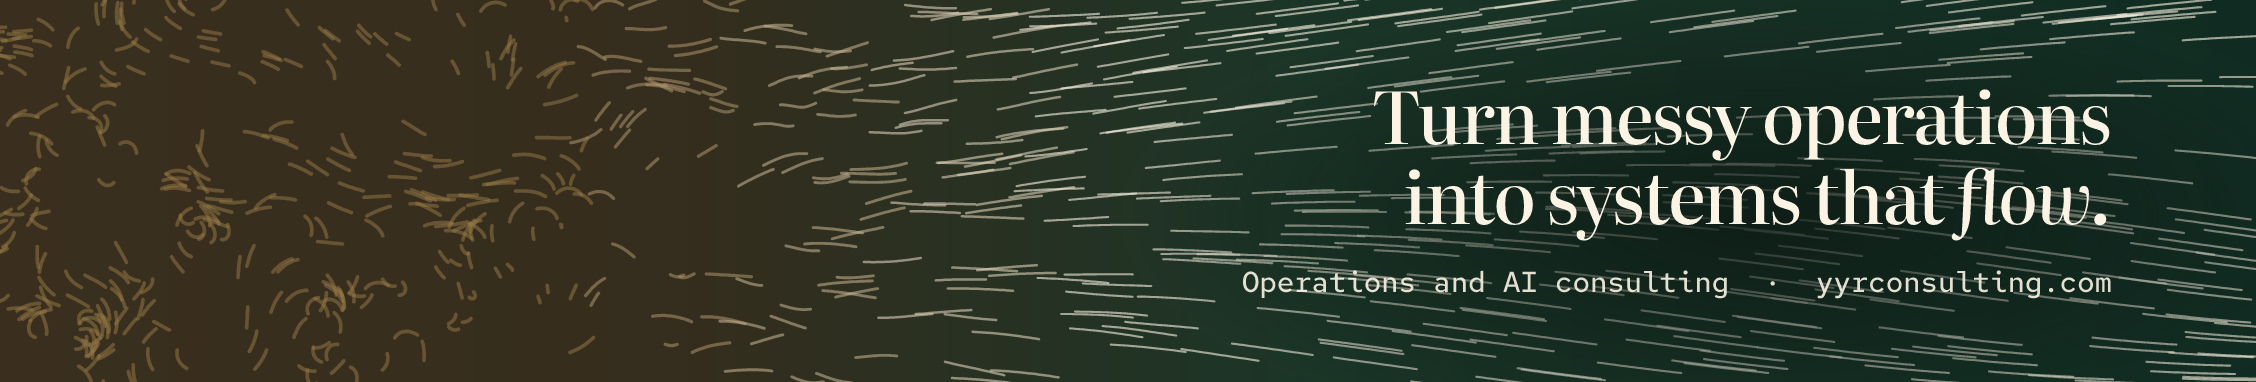
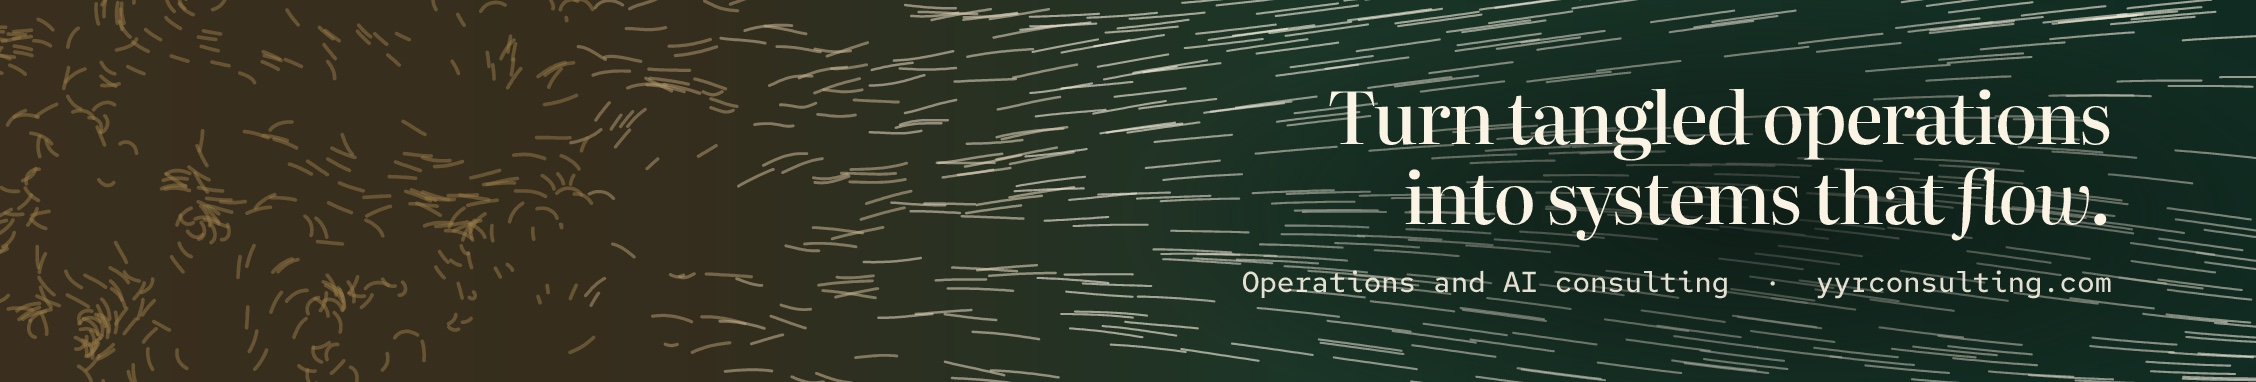
Auto-update 2026-10-10 13:55

Changed region(s): [[0.5895, 0.2304, 0.7757, 0.4319]]

diff --git a/index.html b/index.html
@@ -3,13 +3,18 @@
 <head>
   <meta charset="utf-8">
   <meta name="viewport" content="width=device-width, initial-scale=1">
-  <title>YYR Consulting | Operations that flow</title>
-  <meta name="description" content="Operations and AI consulting. I find what slows your team down and build systems that keep work moving.">
+  <title>YYR Consulting | Operations and AI consulting</title>
+  <meta name="description" content="Operations and AI consulting for growing companies. I find what slows your team down, then use AI to build the fix in weeks.">
   <meta name="theme-color" content="#faf6ee" media="(prefers-color-scheme: light)">
   <meta name="theme-color" content="#121a16" media="(prefers-color-scheme: dark)">
-  <meta property="og:title" content="YYR Consulting">
-  <meta property="og:description" content="Operations and AI consulting. Turn messy operations into systems that flow.">
-  <meta property="og:image" content="https://yyrconsulting.com/brand/yyr-linkedin-banner.jpg">
+  <meta property="og:type" content="website">
+  <meta property="og:url" content="https://yyrconsulting.com/">
+  <meta property="og:title" content="YYR Consulting | Operations and AI consulting">
+  <meta property="og:description" content="Turn tangled operations into systems that flow.">
+  <meta property="og:image" content="https://yyrconsulting.com/brand/og-image.jpg">
+  <meta property="og:image:width" content="1200">
+  <meta property="og:image:height" content="630">
+  <meta name="twitter:card" content="summary_large_image">
   <link rel="preload" href="fonts/Literata-normal.woff2" as="font" type="font/woff2" crossorigin>
   <link rel="preload" href="fonts/Literata-italic.woff2" as="font" type="font/woff2" crossorigin>
   <link rel="preload" href="fonts/RedHatMono-normal.woff2" as="font" type="font/woff2" crossorigin>
@@ -30,7 +35,7 @@
       <ul class="nav__links">
         <li><a href="#services">Services</a></li>
         <li><a href="#work">Work</a></li>
-        <li><a href="#approach">Approach</a></li>
+        <li><a href="#approach">How it works</a></li>
         <li><a href="#about">About</a></li>
       </ul>
       <a class="btn btn--ink btn--sm nav__cta" href="mailto:yitzy@bitzyspider.com?subject=Hello%20YYR%20Consulting">Send an email</a>
@@ -42,67 +47,54 @@
       <canvas class="flow" data-state="mud" data-pointer aria-hidden="true"></canvas>
       <div class="hero__copy">
         <h1 class="hero__title" id="hero-title">
-          <span class="line"><span>Turn messy operations</span></span>
+          <span class="line"><span>Turn tangled operations</span></span>
           <span class="line"><span>into systems that <em>flow.</em></span></span>
         </h1>
-        <p class="hero__sub">Operations and AI consulting. I find what slows your team down and build systems that keep work moving.</p>
+        <p class="hero__sub">Operations and AI consulting. I find what slows your team down, then use AI to build the fix in weeks.</p>
         <div class="hero__actions">
           <a class="btn btn--cream" href="mailto:yitzy@bitzyspider.com?subject=Hello%20YYR%20Consulting">Send an email<svg class="icon" viewBox="0 0 256 256" aria-hidden="true"><path fill="currentColor" d="M221.66,133.66l-72,72a8,8,0,0,1-11.32-11.32L196.69,136H40a8,8,0,0,1,0-16H196.69L138.34,61.66a8,8,0,0,1,11.32-11.32l72,72A8,8,0,0,1,221.66,133.66Z"/></svg></a>
-          <a class="btn btn--line-cream" href="#work">See the work</a>
+          <a class="btn btn--line-cream" href="#work">See an example</a>
         </div>
       </div>
     </section>
 
-    <section class="proof" aria-label="Results">
+    <section class="audience" aria-label="Who this is for">
       <div class="wrap">
-        <ul class="proof__list">
-          <li><em>10x</em> throughput</li>
-          <li><em>$100M+</em> supported</li>
-          <li>Results in <em>weeks</em></li>
-        </ul>
+        <p class="audience__text">For growing companies whose operations have outgrown their spreadsheets.</p>
       </div>
     </section>
 
     <section class="services" id="services" aria-labelledby="services-title">
       <div class="wrap services__wrap">
         <h2 class="h2" id="services-title">What I do</h2>
-        <div class="services__groups">
-          <div class="group">
-            <h3 class="group__label">Operations</h3>
-            <dl class="svc">
-              <div class="svc__row"><dt>Diagnosis and turnaround</dt><dd>Pinpoint what slows you down and fix what matters most first.</dd></div>
-              <div class="svc__row"><dt>Custom AI-built tools</dt><dd>Internal apps built around how your team actually works.</dd></div>
-              <div class="svc__row"><dt>Connected systems</dt><dd>Your tools working together, so every team sees the same numbers.</dd></div>
-              <div class="svc__row"><dt>Dashboards and asset recovery</dt><dd>See what every team is doing. Turn idle stock into cash.</dd></div>
-            </dl>
-          </div>
-          <div class="group">
-            <h3 class="group__label">AI advisory</h3>
-            <dl class="svc">
-              <div class="svc__row"><dt>AI strategy</dt><dd>A clear plan for where AI pays off, plus a quick first win.</dd></div>
-              <div class="svc__row"><dt>AI governance and training</dt><dd>Clear guardrails and hands-on training so your team uses AI with confidence.</dd></div>
-            </dl>
-          </div>
-        </div>
+        <dl class="svc">
+          <div class="svc__row"><dt>Diagnosis and quick wins</dt><dd>Pinpoint what slows your team down and fix what matters most first.</dd></div>
+          <div class="svc__row"><dt>Custom AI-built tools</dt><dd>Internal apps built for your team’s day-to-day work.</dd></div>
+          <div class="svc__row"><dt>Connected systems and dashboards</dt><dd>Your tools working together, so every team sees the same numbers.</dd></div>
+          <div class="svc__row"><dt>AI strategy and training</dt><dd>Where AI pays off, sensible guardrails, and hands-on training for your team.</dd></div>
+        </dl>
       </div>
     </section>
 
     <section class="work" id="work" aria-labelledby="work-title">
       <canvas class="flow" data-state="clean" aria-hidden="true"></canvas>
       <article class="work__card">
-        <h2 class="h2" id="work-title">An equipment marketplace, running smoothly in weeks.</h2>
-        <div class="work__body">
-          <div class="work__story">
-            <p>I brought millions of dollars of inventory into one platform the whole company trusts.</p>
-            <p>Receiving, testing and tracking now run as one connected process, and the team runs it on their own.</p>
+        <h2 class="h2" id="work-title">An equipment marketplace, rebuilt in two months.</h2>
+        <div class="ba">
+          <div class="ba__col">
+            <h3 class="ba__label">Before</h3>
+            <p>Inventory lived in three systems that disagreed, so the team double-checked everything by hand.</p>
           </div>
-          <ul class="results">
-            <li>Errors near zero</li>
-            <li>One source of truth</li>
-            <li>Seven figures recovered from idle stock</li>
-            <li>A team that runs it independently</li>
-          </ul>
+          <div class="ba__col">
+            <h3 class="ba__label">After</h3>
+            <p>One platform the whole company trusts, with receiving, testing and tracking as one connected process.</p>
+          </div>
         </div>
+        <ul class="results">
+          <li><strong>100+ to 3 or 4</strong> inventory errors per area</li>
+          <li><strong>Seven figures</strong> in idle stock headed back to cash</li>
+          <li><strong>In-house</strong> team owns it day to day</li>
+        </ul>
       </article>
     </section>
 
@@ -111,29 +103,36 @@
         <h2 class="h2" id="approach-title">How it works</h2>
         <ol class="steps">
           <li class="step"><h3>Diagnose</h3><p>Talk to the people doing the work.</p></li>
-          <li class="step"><h3>Design</h3><p>Shape the system around what the business needs.</p></li>
+          <li class="step"><h3>Design</h3><p>Map how work really moves, then design the fix.</p></li>
           <li class="step"><h3>Build</h3><p>AI-assisted, so it ships in weeks.</p></li>
-          <li class="step"><h3>Hand off</h3><p>Your team owns it and runs it with confidence.</p></li>
+          <li class="step"><h3>Hand off</h3><p>Your team runs it from day one.</p></li>
         </ol>
+        <p class="steps__note">Engagements start with a short diagnosis, then build and hand off within a couple of months.</p>
       </div>
     </section>
 
     <section class="about" id="about" aria-labelledby="about-title">
       <div class="wrap about__wrap">
+        <img class="about__photo" src="img/yitzy-rosenberg.jpg" alt="Yitzy Rosenberg" width="720" height="712" loading="lazy">
         <div class="about__text">
-          <h2 class="h2" id="about-title">Hi, I’m Yitzy.</h2>
-          <p class="lede">Engineer turned operator. I’ve spent a decade building operations that work, in warehouses, real estate portfolios, public infrastructure and startups.</p>
+          <h2 class="h2" id="about-title">Hi, I’m Yitzy Rosenberg.</h2>
+          <p class="lede">Engineer turned operator. I’ve spent a decade building operations that work, from warehouses and real estate portfolios to public infrastructure.</p>
+          <ul class="creds">
+            <li>Ran operations at a $15M+ equipment marketplace</li>
+            <li>Internal consultant to the CEO of a $1B+ real estate developer</li>
+            <li>Helped secure $100M+ in public infrastructure funding</li>
+            <li>Built an AI tool that took deal review from 10 to nearly 100 a week</li>
+          </ul>
+          <p class="about__edu">MBA and M.Eng, UC Berkeley · B.S. and M.Eng, Cornell</p>
+          <a class="about__link" href="https://www.linkedin.com/in/yitzyrosenberg/" rel="noopener">LinkedIn profile<svg class="icon" viewBox="0 0 256 256" aria-hidden="true"><path fill="currentColor" d="M221.66,133.66l-72,72a8,8,0,0,1-11.32-11.32L196.69,136H40a8,8,0,0,1,0-16H196.69L138.34,61.66a8,8,0,0,1,11.32-11.32l72,72A8,8,0,0,1,221.66,133.66Z"/></svg></a>
         </div>
-        <dl class="facts">
-          <div><dt>UC Berkeley</dt><dd>MBA and M.Eng</dd></div>
-          <div><dt>Cornell</dt><dd>B.S. and M.Eng in engineering</dd></div>
-        </dl>
       </div>
     </section>
 
     <section class="contact" id="contact" aria-labelledby="contact-title">
       <div class="wrap contact__wrap">
         <h2 class="contact__title" id="contact-title">Let’s get your operations <em>flowing.</em></h2>
+        <p class="lede">Tell me what’s slowing your team down, and I’ll reply personally.</p>
         <div class="contact__actions">
           <a class="btn btn--ink" href="mailto:yitzy@bitzyspider.com?subject=Hello%20YYR%20Consulting">Send an email<svg class="icon" viewBox="0 0 256 256" aria-hidden="true"><path fill="currentColor" d="M221.66,133.66l-72,72a8,8,0,0,1-11.32-11.32L196.69,136H40a8,8,0,0,1,0-16H196.69L138.34,61.66a8,8,0,0,1,11.32-11.32l72,72A8,8,0,0,1,221.66,133.66Z"/></svg></a>
         </div>
@@ -147,7 +146,7 @@
         <img class="brand__mark" src="favicon.svg" alt="" width="26" height="26">
         <span class="brand__name">YYR Consulting</span>
       </a>
-      <p class="footer__meta">© 2026 YYR Consulting LLC</p>
+      <p class="footer__meta"><a href="https://www.linkedin.com/in/yitzyrosenberg/" rel="noopener">LinkedIn</a><span>© 2026 YYR Consulting LLC</span></p>
     </div>
   </footer>
 

diff --git a/styles.css b/styles.css
@@ -172,27 +172,22 @@ a { color: inherit; text-underline-offset: 0.2em; text-decoration-thickness: 1px
 @keyframes rise { from { transform: translateY(105%); } }
 @keyframes settle { from { opacity: 0; transform: translateY(10px); filter: blur(6px); } }
 
-/* Proof row */
-.proof { padding: clamp(64px, 9vw, 112px) 0 clamp(24px, 4vw, 48px); }
-.proof__list {
-  display: flex; flex-wrap: wrap; gap: 12px clamp(28px, 5vw, 72px);
-  font-size: clamp(1.6rem, 3.2vw, 2.6rem); font-weight: 400; letter-spacing: -0.03em; line-height: 1.15;
-  color: var(--ink-2);
+/* Audience */
+.audience { padding: clamp(72px, 10vw, 128px) 0 clamp(24px, 4vw, 48px); }
+.audience__text {
+  max-width: 24ch;
+  font-size: clamp(1.9rem, 3.8vw, 3.1rem);
+  font-weight: 400; line-height: 1.15; letter-spacing: -0.03em;
+  text-wrap: balance;
 }
-.proof__list em { color: var(--ink); font-weight: 450; }
 
 /* Services */
 .services { padding: clamp(48px, 6vw, 80px) 0 clamp(88px, 11vw, 140px); }
 .services__wrap { display: grid; grid-template-columns: minmax(0, 4fr) minmax(0, 8fr); gap: clamp(32px, 5vw, 72px); align-items: start; }
 .services__wrap > .h2 { position: sticky; top: 112px; }
 @media (max-width: 900px) { .services__wrap { grid-template-columns: minmax(0, 1fr); } .services__wrap > .h2 { position: static; } }
-.group + .group { margin-top: 56px; }
-.group__label {
-  padding-bottom: 14px;
-  border-bottom: 1px solid var(--line-strong);
-  font-family: var(--mono); font-size: 13px; font-weight: 500; color: var(--ink-2);
-}
 .svc__row { padding: 22px 0; display: grid; grid-template-columns: minmax(0, 5fr) minmax(0, 7fr); gap: 24px; }
+.svc { border-top: 1px solid var(--line-strong); }
 .svc__row + .svc__row { border-top: 1px solid var(--line); }
 .svc dt { font-size: 1.3rem; font-weight: 450; letter-spacing: -0.02em; line-height: 1.25; }
 .svc dd { color: var(--ink-2); font-size: 1.02rem; }
@@ -212,11 +207,18 @@ a { color: inherit; text-underline-offset: 0.2em; text-decoration-thickness: 1px
   box-shadow: 0 30px 70px -30px rgb(4 18 12 / 0.65);
 }
 .work__card .h2 { max-width: 20ch; }
-.work__body { margin-top: 34px; display: grid; grid-template-columns: minmax(0, 7fr) minmax(0, 5fr); gap: clamp(28px, 4vw, 56px); }
-@media (max-width: 860px) { .work__body { grid-template-columns: minmax(0, 1fr); } }
-.work__story p { color: var(--ink-2); }
-.work__story p + p { margin-top: 16px; }
-.results { display: grid; gap: 14px; align-content: start; padding-left: 22px; border-left: 1px solid var(--line-strong); font-size: 1.15rem; font-weight: 450; letter-spacing: -0.015em; }
+
+.ba { margin-top: 32px; display: grid; grid-template-columns: minmax(0, 1fr) minmax(0, 1fr); gap: clamp(20px, 3vw, 40px); }
+@media (max-width: 720px) { .ba { grid-template-columns: minmax(0, 1fr); } }
+.ba__col { padding-top: 14px; border-top: 1px solid var(--line-strong); }
+.ba__col:last-child { border-top-color: var(--accent); }
+.ba__label { font-family: var(--mono); font-size: 12.5px; font-weight: 500; color: var(--ink-2); }
+.ba__col:last-child .ba__label { color: var(--accent); }
+.ba__col p { margin-top: 8px; font-size: 1.1rem; }
+.results { margin-top: 36px; display: grid; grid-template-columns: repeat(3, minmax(0, 1fr)); gap: 20px; }
+@media (max-width: 720px) { .results { grid-template-columns: minmax(0, 1fr); gap: 16px; } }
+.results li { color: var(--ink-2); font-size: 1rem; line-height: 1.4; }
+.results strong { display: block; margin-bottom: 4px; color: var(--ink); font-size: clamp(1.5rem, 2.4vw, 1.9rem); font-weight: 450; letter-spacing: -0.03em; line-height: 1.1; }
 
 /* Approach: a line that draws with the scroll */
 .approach { padding: clamp(88px, 11vw, 140px) 0; }
@@ -237,6 +239,7 @@ a { color: inherit; text-underline-offset: 0.2em; text-decoration-thickness: 1px
   }
 }
 @keyframes draw { from { transform: scaleX(0); } }
+.steps__note { margin-top: 40px; max-width: 60ch; font-family: var(--mono); font-size: 13.5px; color: var(--ink-2); }
 .step h3 { font-size: 1.6rem; font-weight: 450; letter-spacing: -0.03em; }
 .step p { margin-top: 10px; color: var(--ink-2); font-size: 1rem; }
 @media (max-width: 900px) {
@@ -251,12 +254,16 @@ a { color: inherit; text-underline-offset: 0.2em; text-decoration-thickness: 1px
 
 /* About */
 .about { padding: clamp(88px, 11vw, 140px) 0; background: var(--ground-2); }
-.about__wrap { display: grid; grid-template-columns: minmax(0, 7fr) minmax(0, 5fr); gap: clamp(32px, 5vw, 80px); align-items: center; }
-@media (max-width: 900px) { .about__wrap { grid-template-columns: minmax(0, 1fr); } }
-.facts { display: grid; gap: 22px; }
-.facts > div { padding-left: 18px; border-left: 2px solid var(--accent); }
-.facts dt { font-size: 1.2rem; font-weight: 500; letter-spacing: -0.015em; }
-.facts dd { margin-top: 2px; color: var(--ink-2); font-size: 1rem; }
+.about__wrap { display: grid; grid-template-columns: minmax(0, 4fr) minmax(0, 7fr); gap: clamp(32px, 5vw, 80px); align-items: center; }
+.about__photo { width: 100%; max-width: 380px; height: auto; aspect-ratio: 1; object-fit: cover; border-radius: var(--radius); box-shadow: var(--shadow); }
+@media (max-width: 900px) { .about__wrap { grid-template-columns: minmax(0, 1fr); } .about__photo { max-width: 260px; } }
+
+.creds { margin-top: 24px; display: grid; gap: 10px; }
+.creds li { padding-left: 16px; border-left: 2px solid var(--accent); font-size: 1.05rem; line-height: 1.4; }
+.about__edu { margin-top: 22px; font-family: var(--mono); font-size: 13px; color: var(--ink-2); }
+.about__link { margin-top: 18px; display: inline-flex; align-items: center; gap: 8px; font-family: var(--mono); font-size: 14px; font-weight: 500; color: var(--accent); }
+.about__link .icon { transition: transform 220ms var(--ease-out); }
+@media (hover: hover) and (pointer: fine) { .about__link:hover .icon { transform: translateX(3px); } }
 
 /* Contact */
 .contact { padding: clamp(96px, 12vw, 160px) 0; }
@@ -267,7 +274,8 @@ a { color: inherit; text-underline-offset: 0.2em; text-decoration-thickness: 1px
   padding-bottom: 0.06em; text-wrap: balance;
 }
 .contact__title em { color: var(--accent); }
-.contact__actions { margin-top: 36px; display: flex; flex-wrap: wrap; align-items: center; gap: 14px 28px; }
+.contact .lede { margin-top: 14px; }
+.contact__actions { margin-top: 30px; display: flex; flex-wrap: wrap; align-items: center; gap: 14px 28px; }
 .contact__email { font-family: var(--mono); font-size: 15px; font-weight: 500; color: var(--ink-2); }
 @media (hover: hover) and (pointer: fine) { .contact__email:hover { color: var(--ink); } }
 
@@ -276,4 +284,6 @@ a { color: inherit; text-underline-offset: 0.2em; text-decoration-thickness: 1px
 .footer__wrap { display: flex; flex-wrap: wrap; align-items: center; justify-content: space-between; gap: 14px; }
 .footer .brand__mark { width: 26px; height: 26px; border-radius: 6px; }
 .footer .brand__name { font-size: 17px; display: inline; }
-.footer__meta { font-family: var(--mono); font-size: 12.5px; color: var(--ink-2); }
+.footer__meta { display: flex; gap: 22px; font-family: var(--mono); font-size: 12.5px; color: var(--ink-2); }
+.footer__meta a { color: var(--ink-2); }
+@media (hover: hover) and (pointer: fine) { .footer__meta a:hover { color: var(--ink); } }
